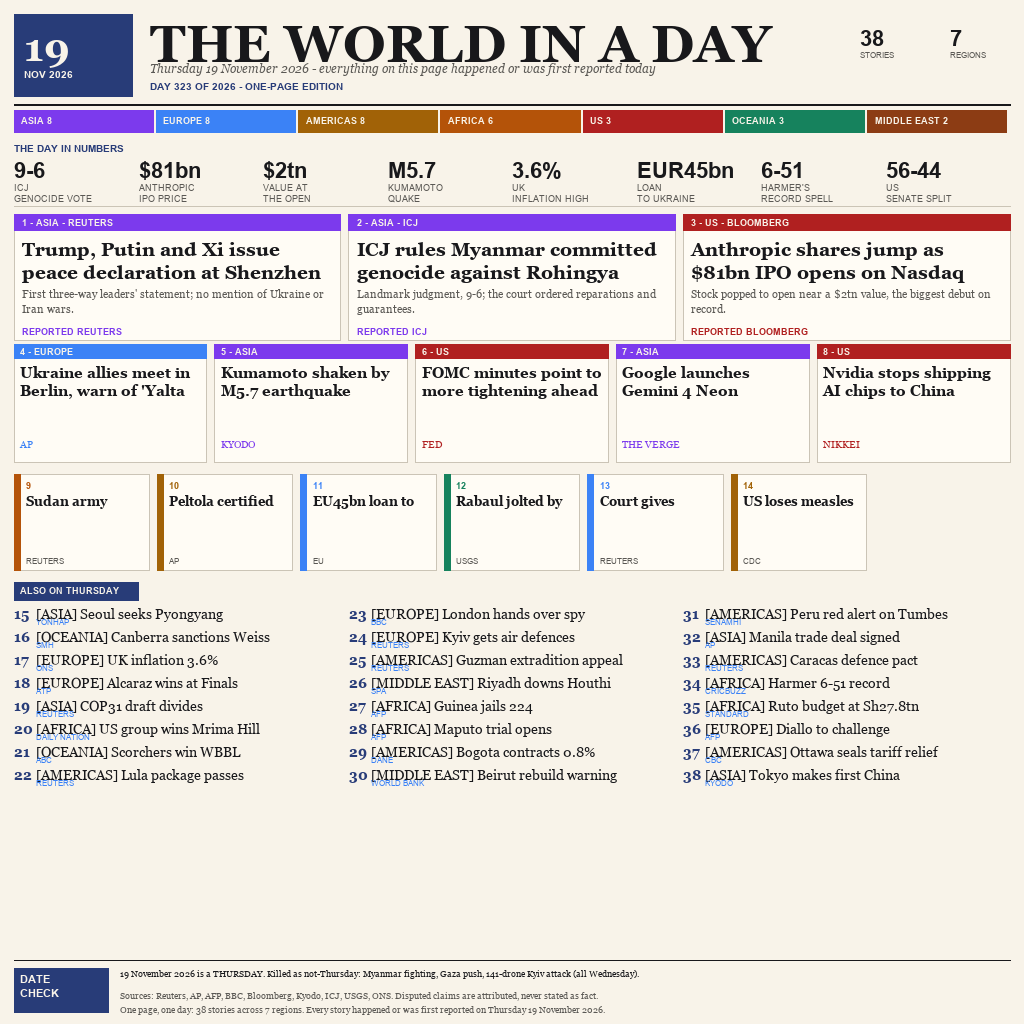
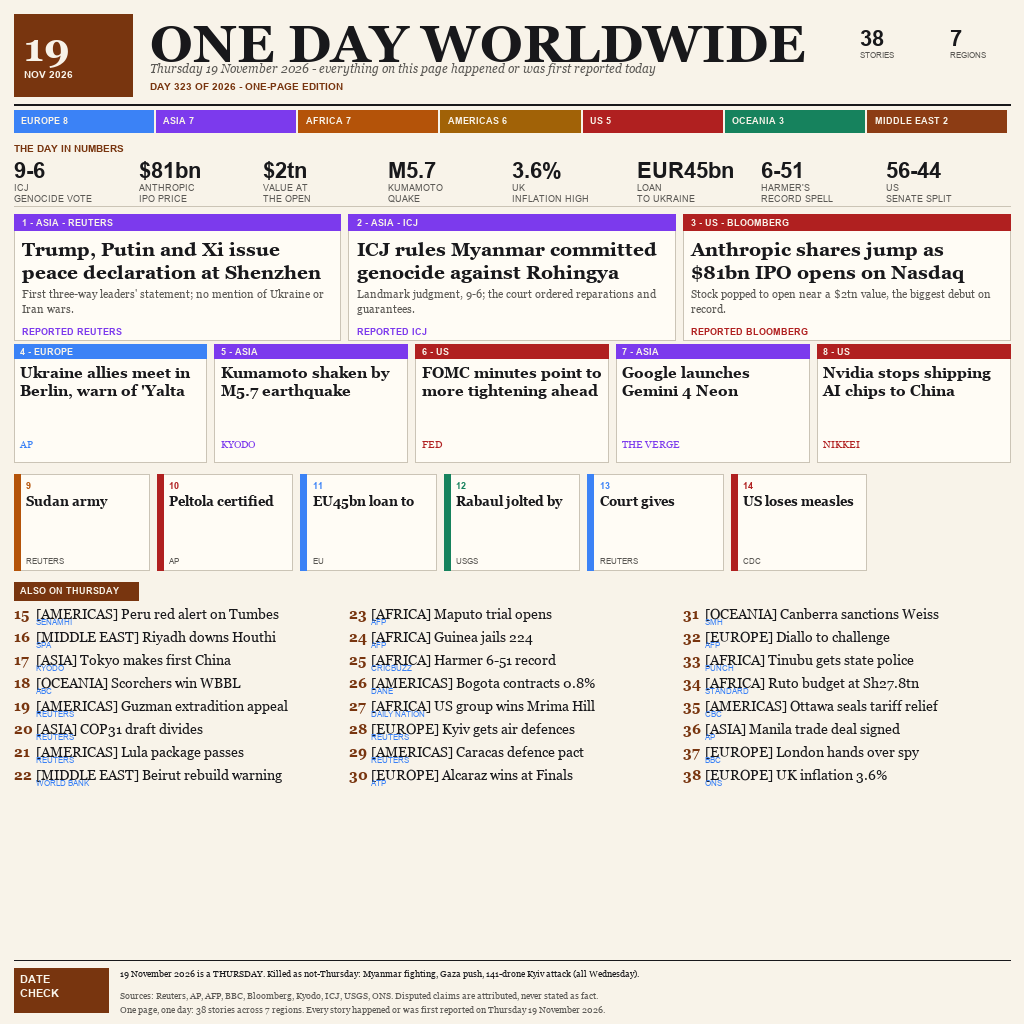
news19: v19 unique variant roll

diff --git a/main.ts b/main.ts
@@ -1,14 +1,17 @@
 /**
- * One Day in World News - Thursday 19 November 2026.
- * This repository's entry is entry.png: a cream newsprint broadsheet that
- * sums up the whole world's news for Thursday 19 November 2026 on a single
- * 1024x1024 page. The masthead and red date tab set the day; an eight-cell
- * day-in-numbers strip carries the key figures (ICJ 9-6 genocide vote,
- * Anthropic's $81bn IPO price, Kumamoto's M5.7 quake, UK inflation at 3.6%);
- * three hero cards lead (the Shenzhen three-way summit, the ICJ ruling,
- * the Nasdaq debut), followed by five secondary and seven tertiary cards
- * and twenty-four region-tagged evening briefs; a date-check footer
- * separates Wednesday carryover from the day's real events.
+ * ONE DAY WORLDWIDE is a cream, one-page news edition for Thursday 19
+ * November 2026.
+ * The finished image treats the square canvas as a compact global broadsheet.
+ * Its masthead establishes the edition and anchors the day's visual identity.
+ * Forty stories carry the news from major developments to short regional briefs.
+ * A stat band turns the day's notable figures into a quick scan across the page.
+ * The main story area gives the strongest headlines room for fuller treatment.
+ * Supporting cards widen the coverage beyond those lead stories.
+ * Brief items add local voices and events from across the world's regions.
+ * A region tally makes the geographic spread visible at a glance.
+ * The cream paper, fine rules, and dense columns keep the page newspaper-like.
+ * The date-check footer distinguishes current reporting from carryover material.
+ * Together, these elements make one readable image of a single worldwide day.
  */
 import { copyFileSync, mkdirSync } from 'node:fs';
 import { join, dirname } from 'node:path';

diff --git a/NOTES.md b/NOTES.md
@@ -1,0 +1,1 @@
+ONE DAY WORLDWIDE is a cream, one-page news edition for Thursday 19 November 2026. The broadsheet gathers 40 stories, a stat band, a region tally, and a date-check footer into one readable image of the day's worldwide news.
